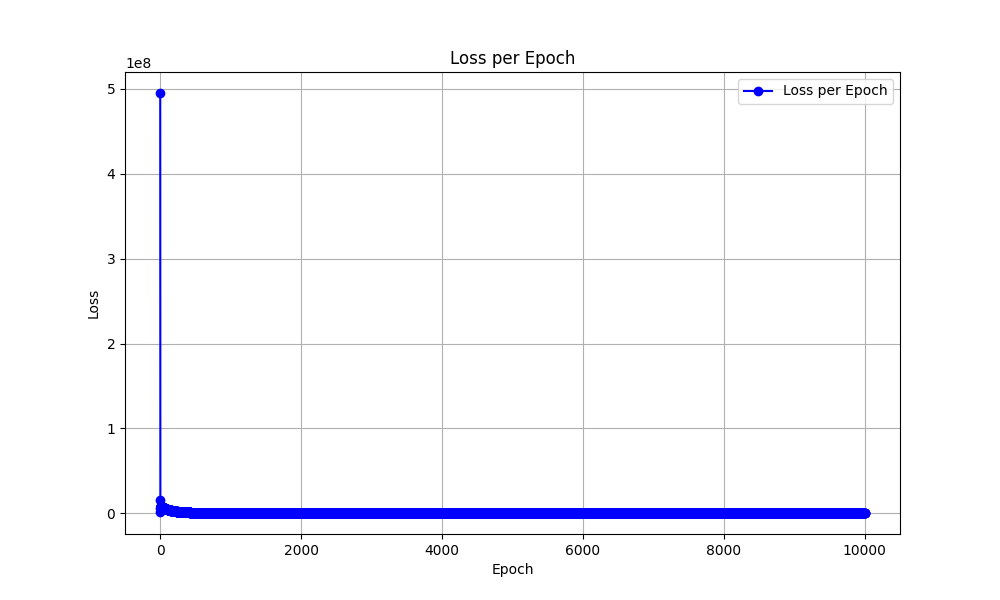
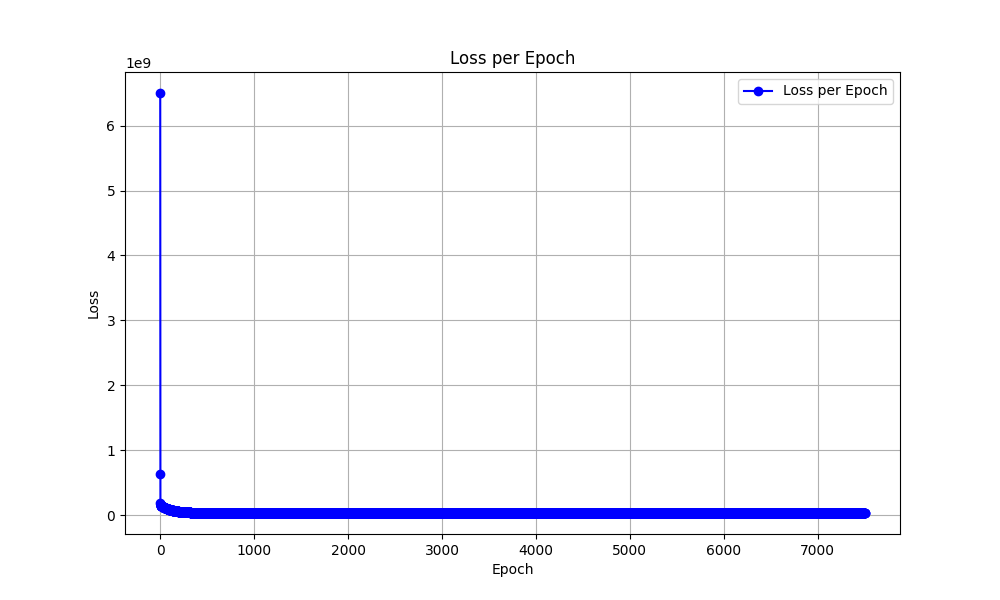
update plotting

diff --git a/LinearRegressionModel.py b/LinearRegressionModel.py
@@ -1,5 +1,10 @@
 from MachineLearningModel import *
 
+import numpy as np
+import plotly.graph_objs as go
+from tqdm import tqdm
+import matplotlib.pyplot as plt
+
 
 class LinearRegressionModel(MachineLearningModel):
     def __init__(self, start_b0: float = 0, start_b1: float = 0):
@@ -65,7 +70,7 @@ class LinearRegressionModel(MachineLearningModel):
                 b0=b0,
                 b1=b1
             )
-            e = (predicted_y - dataset_with_defined_data_necessity_type.output_data[i]) ** 2
+            e += (predicted_y - dataset_with_defined_data_necessity_type.output_data[i]) ** 2
         return e / dataset_with_defined_data_necessity_type.data_len
 
     @staticmethod
@@ -91,3 +96,89 @@ class LinearRegressionModel(MachineLearningModel):
     @staticmethod
     def _prediction_function_str(b0: float, b1: float):
         return f"y = {b0} + {b1}*x"
+
+    def visualize_loss_surface(
+            self,
+            data_necessity_type,
+            history_points,
+            squared_range_value_b0=500000,
+            squared_range_value_b1=50000,
+            quality_factor=0.01
+    ):
+        # Generate b0, b1 grid
+        b0_range = np.arange(-squared_range_value_b0, squared_range_value_b0, squared_range_value_b0*quality_factor)
+        b1_range = np.arange(-squared_range_value_b1, squared_range_value_b1, squared_range_value_b1*quality_factor)
+        b0_grid, b1_grid = np.meshgrid(b0_range, b1_range)
+
+        # Compute loss for each combination of b0 and b1
+        loss_values = np.zeros_like(b0_grid)
+        for i in tqdm(range(len(b0_range))):
+            for j in range(len(b1_range)):
+                loss_values[j, i] = self.loss_function(b0_range[i], b1_range[j], data_necessity_type)
+
+        # Find the minimum point
+        min_index = np.unravel_index(loss_values.argmin(), loss_values.shape)
+        min_b0 = b0_range[min_index[1]]
+        min_b1 = b1_range[min_index[0]]
+        min_loss = loss_values[min_index]
+
+        # Create surface plot
+        fig = go.Figure(data=[go.Surface(x=b0_range, y=b1_range, z=loss_values)])
+
+
+        # Add history points
+        for i in range(len(history_points)):
+            point = history_points[i]
+            b0 = point['B0']
+            b1 = point['B1']
+            loss = point['epoch_loss']
+            fig.add_trace(go.Scatter3d(x=[b0], y=[b1], z=[loss], mode='markers', marker=dict(size=5, color='red'), name='HP'))
+            if i > 0:
+                prev_point = history_points[i-1]
+                fig.add_trace(go.Scatter3d(x=[prev_point['B0'], b0], y=[prev_point['B1'], b1], z=[prev_point['epoch_loss'], loss],
+                                           mode='lines', line=dict(width=2, color='red'), name='M'))
+
+            # Connect history point to surface with lines
+            fig.add_trace(go.Scatter3d(
+                x=[b0, b0],
+                y=[b1, b1],
+                z=[loss, 0],
+                mode='lines',
+                line=dict(color='blue', width=1),
+                showlegend=False
+            ))
+
+        # Add the minimum point
+        fig.add_trace(go.Scatter3d(x=[min_b0], y=[min_b1], z=[min_loss], mode='markers', marker=dict(size=10, color='yellow'), name='Minimum Point'))
+
+
+        fig.update_layout(title='Loss Surface Visualization',
+                          scene=dict(
+                              xaxis_title='b0',
+                              yaxis_title='b1',
+                              zaxis_title='Loss'
+                          ))
+        fig.show()
+
+    def show_loss_history(self, data_list):
+        # Extract values
+        epochs = [i for i in range(len(data_list))]
+        epoch_loss = [point['epoch_loss'] for point in data_list]
+        # Plotting the data
+        plt.figure(figsize=(10, 6))
+        plt.plot(epochs, epoch_loss, marker='o', color='b', label='Loss per Epoch')
+        plt.title('Loss per Epoch')
+        plt.xlabel('Epoch')
+        plt.ylabel('Loss')
+        plt.legend()
+        plt.grid(True)
+        plt.savefig('plot_loss_history.png')
+
+    def define_linear_regression_plot(self, x_data, y_data, b0, b1, name, format="png", range=range(0, 12)):
+        plt.figure()
+        plt.scatter(x_data, y_data, color='red')
+        plt.plot(range, [b1*x + b0 for x in range], color="black")
+        plt.title(name)
+        plt.xlabel('Experience in years')
+        plt.ylabel('Salary')
+        plt.savefig(f'{name}.{format}')

diff --git a/2_1_Linear_Regression.py b/2_1_Linear_Regression.py
@@ -1,16 +1,5 @@
 from LinearRegressionModel import *
 import pandas as pd
-import matplotlib.pyplot as plt
-
-
-def define_linear_regression_plot(x_data, y_data, b0, b1, name, format="png", range=range(0, 12)):
-    plt.figure()
-    plt.scatter(x_data,y_data,color='red')
-    plt.plot(range, [b1*x + b0 for x in r], color="black")
-    plt.title('Salary vs Experience(Train set)')
-    plt.xlabel('Experience in years')
-    plt.ylabel('Salary')
-    plt.savefig(f'{name}.{format}')
 
 
 # %% load data
@@ -31,83 +20,15 @@ loss_history = LRM.learn(
     data_necessity_type=DataNecessityType.TRAINING
 )
 print(f"loss_value_after_resetting_params_to_zero: {loss_history[-1]} ({LRM.prediction_function_str()})")
+LRM.define_linear_regression_plot(
+    x_data=LRM.dataset.get(DataNecessityType.TRAINING).input_data,
+    y_data=LRM.dataset.get(DataNecessityType.TRAINING).output_data,
+    b0=LRM.b0,
+    b1=LRM.b1,
+    name="loss_value_after_resetting_params_to_zero"
+)
 
-# %% plot the data and the model
-r = range(9000, 12000)
-plt.figure()
-plt.plot(r, [LRM.loss_function(0, b1, DataNecessityType.TRAINING) for b1 in r], color="black")
-plt.title('Salary vs Experience(Train set)')
-plt.xlabel('Experience in years')
-plt.ylabel('Salary')
-plt.savefig('plot_b1_derivative_on_loss.png')
-
-
-import plotly.graph_objs as go
-
-
-def show_loss_history_3d(data_list):
-    x = [point['B0'] for point in data_list]
-    y = [point['B1'] for point in data_list]
-    z = [point['epoch_loss'] for point in data_list]
-
-    # Create traces for scatter plot
-    scatter_trace = go.Scatter3d(
-        x=x,
-        y=y,
-        z=z,
-        mode='markers',
-        marker=dict(
-            size=5,
-            color=z,                # set color to an array/list of desired values
-            colorscale='Viridis',   # choose a colorscale
-            opacity=0.8
-        )
-    )
-
-    # Create traces for arrows
-    arrow_traces = []
-    for i in range(len(x) - 1):
-        arrow_trace = go.Scatter3d(
-            x=[x[i], x[i + 1]],
-            y=[y[i], y[i + 1]],
-            z=[z[i], z[i + 1]],
-            mode='lines',
-            line=dict(color='blue', width=2),
-            hoverinfo='none'
-        )
-        arrow_traces.append(arrow_trace)
-
-    # Create the figure
-    fig = go.Figure(data=[scatter_trace] + arrow_traces)
-
-    # Set labels and title
-    fig.update_layout(scene=dict(
-                        xaxis_title='B0',
-                        yaxis_title='B1',
-                        zaxis_title='epoch_loss'),
-                      title='3D Scatter Plot with Arrows')
-
-    # Show the plot
-    fig.show()
-
-
-def show_loss_history(data_list):
-    # Extract values
-    epochs = [i for i in range(len(data_list))]
-    epoch_loss = [point['epoch_loss'] for point in data_list]
-    # Plotting the data
-    plt.figure(figsize=(10, 6))
-    plt.plot(epochs, epoch_loss, marker='o', color='b', label='Loss per Epoch')
-    plt.title('Loss per Epoch')
-    plt.xlabel('Epoch')
-    plt.ylabel('Loss')
-    plt.legend()
-    plt.grid(True)
-    plt.savefig('plot_loss_history.png')
-
-
-# show_loss_history_3d(loss_history)
-show_loss_history(loss_history)
+LRM.visualize_loss_surface(data_necessity_type=DataNecessityType.TRAINING, history_points=loss_history[::50])
 
 LRM.b0 = 0
 LRM.b1 = 0
@@ -125,7 +46,10 @@ loss_value_with_mathematically_ideal_params = LRM.loss_function(
     data_necessity_type=DataNecessityType.TRAINING
 )
 print(f"loss_value_with_mathematically_ideal_params: {loss_value_with_mathematically_ideal_params} ({LRM.prediction_function_str()})")
-
-
-# print(loss_history)
-
+LRM.define_linear_regression_plot(
+    x_data=LRM.dataset.get(DataNecessityType.TRAINING).input_data,
+    y_data=LRM.dataset.get(DataNecessityType.TRAINING).output_data,
+    b0=LRM.b0,
+    b1=LRM.b1,
+    name="loss_value_with_mathematically_ideal_params"
+)
